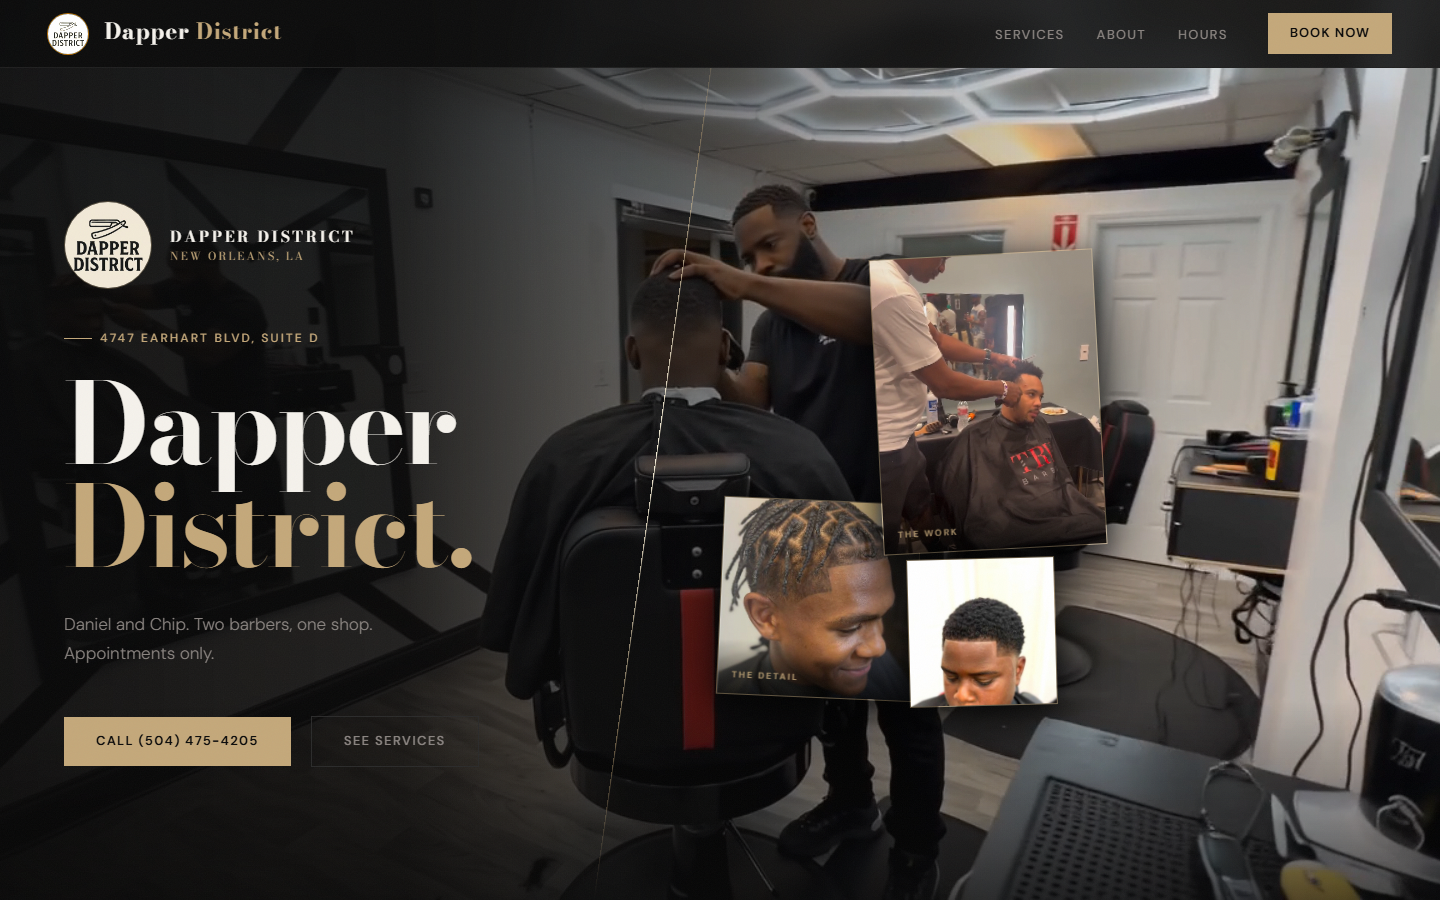
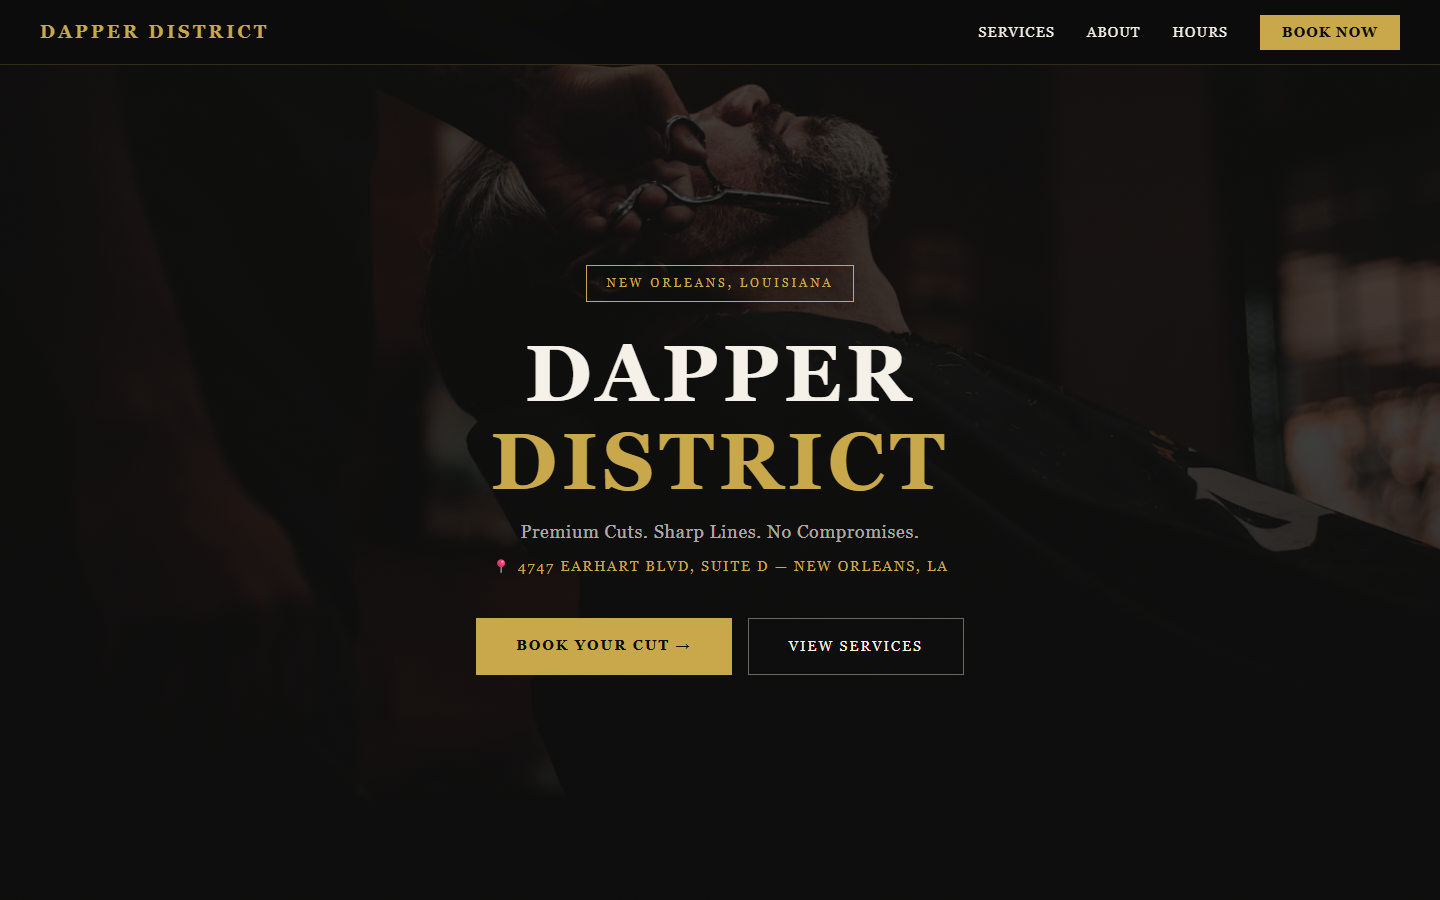
fix: correct Dapper District mockup + ping animation on live badge

diff --git a/index.html b/index.html
@@ -359,10 +359,23 @@
       50%      { transform: translateY(-8px); }
     }
     .badge-dot-green {
+      position: relative;
       width: 8px; height: 8px;
       border-radius: 50%;
       background: #22C55E;
-      box-shadow: 0 0 8px #22C55E;
+      flex-shrink: 0;
+    }
+    .badge-dot-green::before {
+      content: '';
+      position: absolute;
+      inset: -3px;
+      border-radius: 50%;
+      background: #22C55E;
+      animation: ping 1.6s cubic-bezier(0, 0, 0.2, 1) infinite;
+    }
+    @keyframes ping {
+      0%   { transform: scale(1);   opacity: 0.7; }
+      75%, 100% { transform: scale(2.5); opacity: 0; }
     }
     .badge-icon { font-size: 16px; }
 
